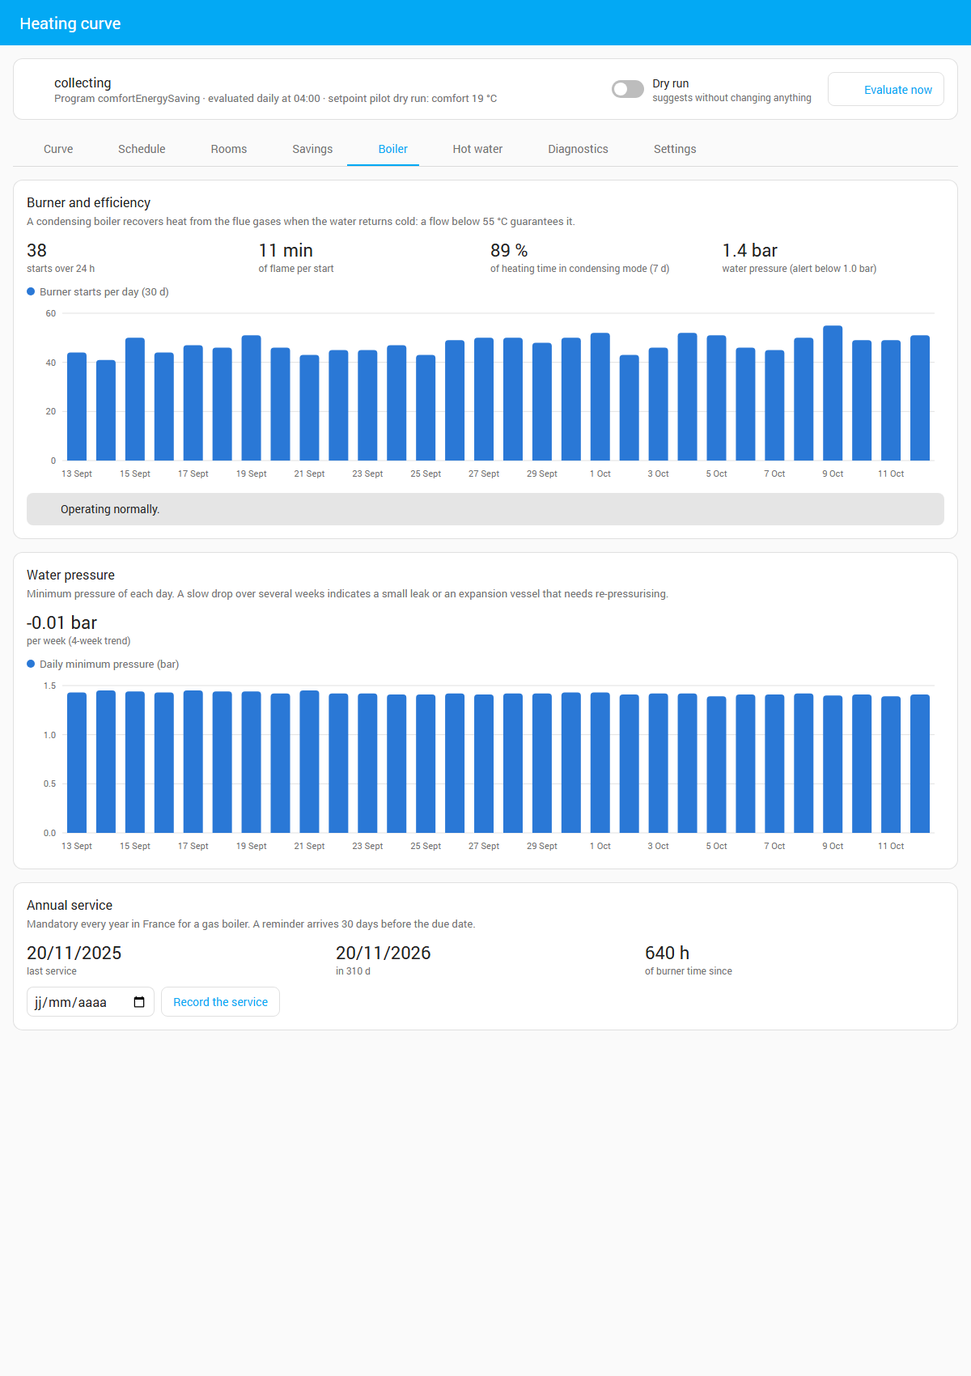
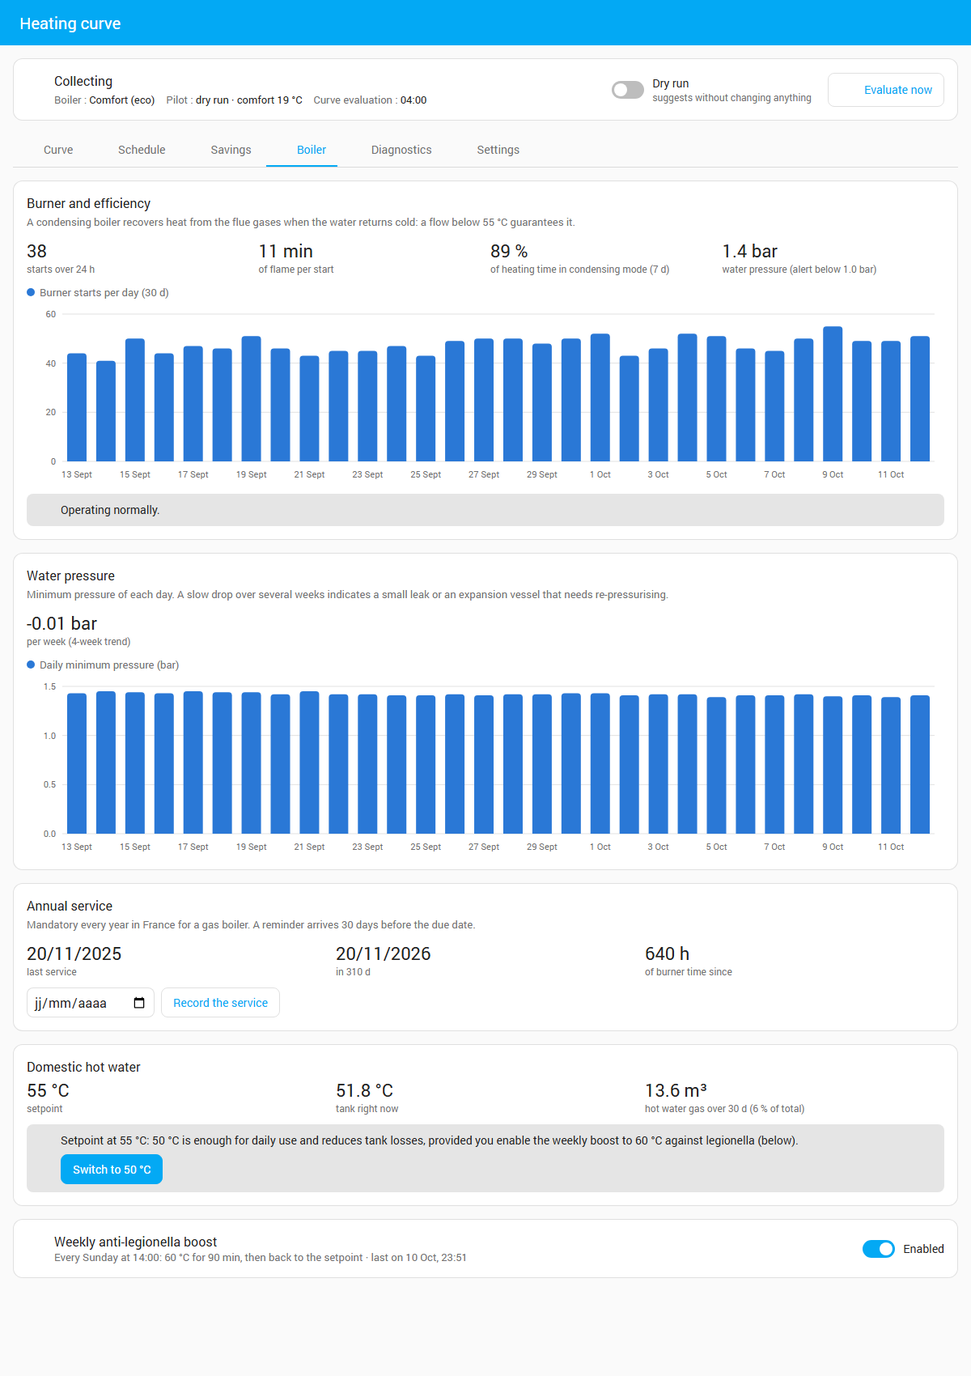
v0.6.3 : passe UX — 6 onglets, bandeau d'état lisible, explications repliables, affichage téléphone
- Onglets : Pièces rejoint Planning, Eau chaude rejoint Chaudière ; icône + libellé court sur téléphone
- Bandeau d'état : état en titre, chaudière / pilote / évaluation sur des lignes claires,
  noms des programmes ViCare en français
- Explications longues repliées dans « En savoir plus »
- Contour de focus clavier, grille de planning et tableau des pièces adaptés au téléphone
- tools/mobile-screenshots.mjs : vraie émulation téléphone (Chrome sans fenêtre ne descend pas sous ~500 px)

diff --git a/custom_components/heating_curve_optimizer/frontend/heating-curve-panel.js b/custom_components/heating_curve_optimizer/frontend/heating-curve-panel.js
@@ -264,6 +264,31 @@ const EN = {
   "Relance anticipée": "Early start",
   "En pause": "Paused",
   "Confirmer": "Confirm",
+  "En savoir plus": "Learn more",
+  "Pilote": "Pilot",
+  "désactivé": "off",
+  "actif": "active",
+  "simulé": "dry run",
+  "Évaluation de la courbe": "Curve evaluation",
+  "Confort (éco)": "Comfort (eco)",
+  "Normal": "Normal",
+  "Normal (éco)": "Normal (eco)",
+  "Réduit (éco)": "Reduced (eco)",
+  "Veille": "Standby",
+  "Forcé (planning)": "Forced (schedule)",
+  "Éco": "Eco",
+  "Vacances": "Holiday",
+  "Vacances à la maison": "Holiday at home",
+  "Fixe": "Fixed",
+  "Tableau Énergie de Home Assistant : source gaz = compteur Gazpar (ou consommations ViCare), prix = entité « Prix du gaz (kWh) » de l'optimiseur, qui suit les Réglages.":
+    "Home Assistant Energy dashboard: gas source = Gazpar meter (or ViCare consumption), price = the optimizer's \"Gas price (kWh)\" entity, which follows the Settings.",
+  "Vitesse de chauffe apprise par Better Thermostat pour chaque pièce, comparée à la médiane.": "Heating rate learned by Better Thermostat for each room, compared with the median.",
+  "Un radiateur qui chauffe beaucoup plus vite que les autres « vole » l'eau chaude aux pièces lentes.": "A radiator that heats much faster than the others \"steals\" hot water from the slow rooms.",
+  "La courbe est réglée pour la pièce la plus difficile à chauffer.": "The curve is tuned for the hardest room to heat.",
+  "Mode multi-pièces inactif : seule la sonde de la chaudière est utilisée. Ajoute tes thermostats dans l'onglet Réglages › Pièces et météo.":
+    "Multi-room mode off: only the boiler's room sensor is used. Add your thermostats in the Settings tab › Rooms and weather.",
+  "Parmi les pièces qui demandent de la chaleur, c'est la plus froide qui décide. Quand plus aucune ne demande, la marge de la moins chaude permet de baisser la courbe.":
+    "Among the rooms calling for heat, the coldest one decides. When none calls for heat, the margin of the least warm room lets the curve go down.",
   "Relevés ViCare corrigés de {p} % d'après le compteur Gazpar ({n} mois comparés). La prévision de facture utilise directement les relevés du compteur.":
     "ViCare readings corrected by {p} % from the Gazpar meter ({n} months compared). The bill forecast uses the meter readings directly.",
   "Réglages": "Settings",
@@ -277,7 +302,6 @@ const EN = {
   "Calcul en cours…": "Calculating…",
   "Renseigne ta facture dans l'onglet Réglages (section « Facture et mensualités ») : début de période, mensualité, abonnement et consommation de référence.":
     "Enter your bill in the Settings tab (\"Bill and instalments\" section): period start, monthly instalment, standing charge and reference consumption.",
-  "{v} €": "€{v}",
   "≈ {v} à payer à la régularisation": "≈ {v} to pay at the yearly settlement",
   "≈ {v} remboursés à la régularisation": "≈ {v} refunded at the yearly settlement",
   "consommés depuis le {d}": "used since {d}",
@@ -318,7 +342,6 @@ const EN = {
     "Click or drag on the grid: blue = comfort, empty = reduced (30 min steps).",
   "Consigne confort": "Comfort setpoint",
   "Consigne réduite": "Reduced setpoint",
-  "Enregistrer": "Save",
   "Importer depuis les têtes thermostatiques": "Import from thermostatic radiator valves",
   "Copier le lundi sur les jours ouvrés": "Copy Monday to weekdays",
   "Décisions des dernières 48 h": "Decisions over the last 48 h",
@@ -413,6 +436,16 @@ const DAY = 86400000;
 const dayLabel = (ms) => new Date(ms).toLocaleDateString(LOCALE, { day: "numeric", month: "short" });
 const CONDENSING_MAX = 55; // °C de départ sous lesquels la condensation est assurée
 const DJU_BASE = 18;
+const capitalize = (txt) => (txt ? String(txt).charAt(0).toUpperCase() + String(txt).slice(1) : txt);
+// Noms lisibles des programmes ViCare
+const PROGRAMS = {
+  comfort: "Confort", comfortenergysaving: "Confort (éco)", normal: "Normal", normalenergysaving: "Normal (éco)",
+  reduced: "Réduit", reducedenergysaving: "Réduit (éco)", standby: "Veille", forcedlastfromschedule: "Forcé (planning)",
+  eco: "Éco", holiday: "Vacances", holidayathome: "Vacances à la maison", fixed: "Fixe",
+};
+const programLabel = (p) => (p ? t(PROGRAMS[String(p).toLowerCase()] || p) : "—");
+// Explication repliable : une phrase visible, le détail sur demande
+const info = (...paragraphs) => `<details class="info"><summary>${t("En savoir plus")}</summary>${paragraphs.map((x) => `<p>${x}</p>`).join("")}</details>`;
 const toMin = (hhmm) => { const [h, m] = String(hhmm).split(":"); return +h * 60 + +m; };
 const fromMin = (m) => (m >= 1440 ? "24:00" : `${String(Math.floor(m / 60)).padStart(2, "0")}:${String(m % 60).padStart(2, "0")}`);
 
@@ -449,12 +482,27 @@ const STYLE = `
 .toolbar { display:flex; align-items:center; gap:8px; height:56px; padding:0 16px; background:var(--app-header-background-color, var(--primary-color));
   color:var(--app-header-text-color, #fff); font-size:20px; font-weight:400; }
 .toolbar .title { flex:1; white-space:nowrap; overflow:hidden; text-overflow:ellipsis; }
-.content { max-width:1280px; margin:0 auto; padding:var(--gap); display:grid; gap:var(--gap); }
+.content { max-width:1280px; margin:0 auto; padding:var(--gap); display:grid; grid-template-columns:minmax(0, 1fr); gap:var(--gap); }
+.content > *, .card { min-width:0; }
+@media (max-width: 600px) { :host { --gap:10px; } .card { padding:14px; } }
+button:focus-visible, select:focus-visible, input:focus-visible, .cell:focus-visible, summary:focus-visible {
+  outline:2px solid var(--primary-color); outline-offset:2px; }
 .card { background:var(--card-background-color, #fff); border-radius:var(--ha-card-border-radius, 12px);
   border:1px solid var(--divider-color); padding:16px; min-width:0; }
 .card h2 { margin:0 0 4px; font-size:16px; font-weight:500; }
 .card .sub { margin:0 0 12px; color:var(--secondary-text-color); font-size:13px; }
 .status { display:flex; flex-wrap:wrap; align-items:center; gap:12px 20px; }
+.status .state b { font-size:16px; }
+.status .facts { display:flex; flex-wrap:wrap; gap:4px 14px; margin-top:4px; font-size:13px; color:var(--secondary-text-color); }
+.status .facts span { white-space:nowrap; }
+.status .facts b { font-size:13px; color:var(--primary-text-color); }
+@media (max-width: 600px) { .status .btn { flex:1; justify-content:center; } }
+details.info { margin-top:8px; font-size:13px; color:var(--secondary-text-color); }
+details.info summary { cursor:pointer; color:var(--primary-color); width:fit-content; list-style:none; }
+details.info summary::-webkit-details-marker { display:none; }
+details.info summary::before { content:"ⓘ "; }
+details.info[open] summary { margin-bottom:6px; }
+details.info p { margin:0 0 6px; line-height:1.5; }
 .status .state { display:flex; align-items:center; gap:10px; flex:1; min-width:220px; }
 .status .state ha-icon { color:var(--secondary-text-color); }
 .status .state b { font-weight:500; }
@@ -470,7 +518,8 @@ button.btn { font:inherit; font-size:14px; font-weight:500; border-radius:8px; p
   border:1px solid var(--divider-color); background:transparent; color:var(--primary-color); display:inline-flex; align-items:center; gap:6px; }
 button.btn.primary { background:var(--primary-color); color:var(--text-primary-color, #fff); border-color:var(--primary-color); }
 button.btn:disabled { opacity:.45; cursor:default; }
-.tiles { display:grid; grid-template-columns:repeat(auto-fit, minmax(160px, 1fr)); gap:var(--gap); }
+.tiles { display:grid; grid-template-columns:repeat(auto-fit, minmax(150px, 1fr)); gap:var(--gap); }
+@media (max-width: 600px) { .tiles { grid-template-columns:repeat(2, minmax(0, 1fr)); } .tile .value { font-size:22px; } }
 .tile { display:flex; flex-direction:column; gap:2px; }
 .tile .label { display:flex; align-items:center; gap:6px; color:var(--secondary-text-color); font-size:13px; }
 .tile .label ha-icon { --mdc-icon-size:18px; }
@@ -551,6 +600,12 @@ tr:last-child td { border-bottom:none; }
   padding:10px 14px; cursor:pointer; white-space:nowrap; display:inline-flex; align-items:center; gap:6px; }
 .tabs button ha-icon { --mdc-icon-size:18px; }
 .tabs button[aria-selected="true"] { color:var(--primary-color); border-bottom-color:var(--primary-color); }
+@media (max-width: 600px) {
+  .tabs { gap:0; }
+  .tabs button { flex:1 1 0; min-width:0; flex-direction:column; gap:2px; padding:8px 2px; font-size:11px; }
+  .tabs button ha-icon { --mdc-icon-size:20px; }
+  .tabs button span { max-width:100%; overflow:hidden; text-overflow:ellipsis; }
+}
 .alert { display:flex; gap:12px; align-items:flex-start; border-radius:12px; padding:12px 16px; font-size:14px;
   background:color-mix(in srgb, var(--error-color, #db4437) 12%, var(--card-background-color, #fff)); border:1px solid color-mix(in srgb, var(--error-color, #db4437) 40%, transparent); }
 .alert ha-icon { color:var(--error-color, #db4437); flex:none; }
@@ -570,7 +625,7 @@ tr:last-child td { border-bottom:none; }
 .seg button + button { border-left:1px solid var(--divider-color); }
 .seg button[aria-checked="true"] { background:var(--primary-color); color:var(--text-primary-color, #fff); }
 .sched { display:grid; gap:3px; user-select:none; touch-action:none; overflow-x:auto; }
-.sched-hours, .sched-row { display:grid; grid-template-columns:36px 1fr; align-items:center; min-width:520px; }
+.sched-hours, .sched-row { display:grid; grid-template-columns:36px 1fr; align-items:center; min-width:330px; }
 .sched-hours { grid-template-columns:36px repeat(8, 1fr); font-size:11px; color:var(--secondary-text-color); }
 .sched-day { font-size:12px; color:var(--secondary-text-color); }
 .sched-cells { display:grid; grid-template-columns:repeat(48, 1fr); gap:1px; }
@@ -581,6 +636,13 @@ table.rooms td.cellstep { padding:4px 8px; }
 table.rooms .box { display:inline-flex; align-items:center; border:1px solid var(--divider-color); border-radius:8px; overflow:hidden; }
 table.rooms .box button { width:30px; height:30px; border:none; background:transparent; color:var(--primary-color); font-size:18px; cursor:pointer; }
 table.rooms output { min-width:56px; text-align:center; }
+@media (max-width: 600px) {
+  table.rooms td.cellstep { padding:4px 2px; }
+  table.rooms .box button { width:26px; height:28px; font-size:16px; }
+  table.rooms output { min-width:38px; font-size:13px; }
+  table.rooms th, table.rooms td { padding-left:4px; padding-right:4px; }
+  table.rooms th:nth-child(5), table.rooms td:nth-child(5) { display:none; } /* consigne prévue : secondaire sur téléphone */
+}
 input[type="date"] { font:inherit; padding:6px 8px; border-radius:8px; border:1px solid var(--divider-color);
   background:var(--card-background-color); color:var(--primary-text-color); }
 .sched-cells .cell:hover { outline:1px solid var(--primary-text-color); outline-offset:-1px; }
@@ -601,7 +663,7 @@ class HeatingCurvePanel extends HTMLElement {
     this._stats = null;
     this._recov = null;
     try {
-      this._tab = localStorage.getItem("hco-tab") || "curve";
+      this._tab = { rooms: "planning", dhw: "boiler" }[localStorage.getItem("hco-tab")] || localStorage.getItem("hco-tab") || "curve";
     } catch {
       this._tab = "curve";
     }
@@ -1018,11 +1080,13 @@ class HeatingCurvePanel extends HTMLElement {
       <div class="card status">
         <div class="state">
           <ha-icon icon="mdi:information-outline"></ha-icon>
-          <div><b>${esc(d.status)}</b>
-            <small>${t("Programme {p} · évaluation chaque jour à {h}", { p: esc(live.program || "—"), h: esc(String(s.evaluate_at).slice(0, 5)) })}${d.pilot.mode !== "off" && d.pilot.state
-              ? ` · ${d.pilot.mode === "active"
-                ? t("pilotage actif : {mode} {v} °C", { mode: esc(t(d.pilot.state.mode)), v: fmt(d.pilot.state.setpoint, 0) })
-                : t("pilotage simulé : {mode} {v} °C", { mode: esc(t(d.pilot.state.mode)), v: fmt(d.pilot.state.setpoint, 0) })}` : ""}</small></div>
+          <div><b>${esc(capitalize(d.status))}</b>
+            <div class="facts">
+              <span>${t("Chaudière")} : <b>${esc(programLabel(live.program))}</b></span>
+              <span>${t("Pilote")} : <b>${d.pilot.mode === "off" ? t("désactivé")
+                : `${d.pilot.mode === "active" ? t("actif") : t("simulé")}${d.pilot.state ? ` · ${esc(t(d.pilot.state.mode))}${d.pilot.state.setpoint != null ? ` ${fmt(d.pilot.state.setpoint, 0)} °C` : ""}` : ""}`}</b></span>
+              <span>${t("Évaluation de la courbe")} : <b>${esc(String(s.evaluate_at).slice(0, 5))}</b></span>
+            </div></div>
         </div>
         <div class="mode clickable" data-action="toggle-auto">
           <button class="toggle" role="switch" aria-checked="${d.auto}" aria-label="${t("Ajustement automatique")}" data-action="toggle-auto"></button>
@@ -1101,26 +1165,22 @@ class HeatingCurvePanel extends HTMLElement {
     const tabs = [
       ["curve", "mdi:chart-bell-curve-cumulative", t("Courbe")],
       ["planning", "mdi:calendar-clock", t("Planning")],
-      ["rooms", "mdi:home-thermometer-outline", t("Pièces")],
       ["savings", "mdi:piggy-bank-outline", t("Économies")],
       ["boiler", "mdi:fire", t("Chaudière")],
-      ["dhw", "mdi:water-boiler", t("Eau chaude")],
       ["diag", "mdi:stethoscope", t("Diagnostic")],
       ["settings", "mdi:cog-outline", t("Réglages")],
     ];
     const nav = `<nav class="tabs" role="tablist">${tabs
       .map(([k, icon, label]) =>
-        `<button role="tab" aria-selected="${this._tab === k}" data-action="tab" data-tab="${k}"><ha-icon icon="${icon}"></ha-icon>${label}</button>`)
+        `<button role="tab" aria-selected="${this._tab === k}" data-action="tab" data-tab="${k}" title="${label}"><ha-icon icon="${icon}"></ha-icon><span>${label}</span></button>`)
       .join("")}</nav>`;
 
     let content;
     if (this._tab === "settings") content = this._settingsTab();
-    else if (this._tab === "planning") content = this._planningTab(pal);
+    else if (this._tab === "planning") content = `${this._planningTab(pal)}${this._roomsTab(live)}`;
     else if (this._tab === "diag") content = this._diagnosticTab(pal);
-    else if (this._tab === "rooms") content = this._roomsTab(live);
     else if (this._tab === "savings") content = this._savingsTab(pal);
-    else if (this._tab === "boiler") content = this._boilerTab(pal);
-    else if (this._tab === "dhw") content = this._dhwTab();
+    else if (this._tab === "boiler") content = `${this._boilerTab(pal)}${this._dhwTab()}`;
     else content = `${tiles}
       <div class="main">${curveCard}${control}</div>
       ${errorCard}
@@ -1222,11 +1282,12 @@ class HeatingCurvePanel extends HTMLElement {
           <td>${share != null ? `<span class="chip ${share >= 40 ? "lim" : ""}">${t("{v} % du temps", { v: share })}</span>` : "—"}</td></tr>`;
       }).join("")}</tbody></table></div>`;
     const explain = d.rooms.length
-      ? t("La courbe est réglée pour la pièce la plus difficile à chauffer : parmi les pièces qui demandent de la chaleur, " +
-         "c'est la plus froide qui décide. Quand plus aucune ne demande, la marge de la moins chaude permet de baisser la courbe.")
-      : t("Mode multi-pièces inactif : seule la sonde de la chaudière est utilisée. Ajoute tes thermostats dans " +
-         "Paramètres › Appareils et services › Optimiseur de courbe de chauffe › Configurer › Pièces et météo.");
-    return `<div class="card"><h2>${t("Pièces suivies")}</h2><p class="sub">${explain}</p>${table}
+      ? `<p class="sub">${t("La courbe est réglée pour la pièce la plus difficile à chauffer.")}</p>`
+      : `<p class="sub">${t("Mode multi-pièces inactif : seule la sonde de la chaudière est utilisée. Ajoute tes thermostats dans l'onglet Réglages › Pièces et météo.")}</p>`;
+    const more = d.rooms.length
+      ? info(t("Parmi les pièces qui demandent de la chaleur, c'est la plus froide qui décide. Quand plus aucune ne demande, la marge de la moins chaude permet de baisser la courbe."))
+      : "";
+    return `<div class="card"><h2>${t("Pièces suivies")}</h2>${explain}${table}${more}
       ${withLim ? `<p class="note" style="margin-top:10px">${t("« Limitante » : part des {n} mesures en cours où la pièce a fixé l'écart retenu.", { n: withLim })}</p>` : ""}
       ${d.settings.solar_filter && d.entities.weather ? `<p class="note" style="margin-top:6px">${t("Filtre solaire actif : les mesures prises par grand soleil sont ignorées ({name}).", { name: esc(name(d.entities.weather)) })}</p>` : ""}</div>`;
   }
@@ -1280,9 +1341,11 @@ class HeatingCurvePanel extends HTMLElement {
           tip: (x) => `<b>${dayLabel(x.t)}</b><div>${t("{gas} m³ · {dju} DJU (ext. {ext} °C)", { gas: fmt(x.gas, 1), dju: fmt(x.dju, 1), ext: fmt(x.ext) })}</div><div><b>${fmt(x.ratio, 3)}</b> m³/DJU</div>`,
           empty: t("Pas encore assez de jours de chauffe (au moins 2 degrés-jours par jour)."),
         })}
-        <p class="note" style="margin-top:8px">${t("Un degré-jour (DJU) mesure le besoin de chauffage : {b} °C moins la température extérieure moyenne du jour.", { b: DJU_BASE })}
-          ${t("Diviser le gaz par les DJU compare des périodes de météo différente : si le ratio baisse après un ajustement, l'économie est réelle.")}</p>
-        <p class="note">${t("Tableau Énergie de Home Assistant : sources gaz = consommations ViCare du jour, prix = entité « Prix du gaz » de l'optimiseur.")}</p>`;
+        ${info(
+          `${t("Un degré-jour (DJU) mesure le besoin de chauffage : {b} °C moins la température extérieure moyenne du jour.", { b: DJU_BASE })}
+          ${t("Diviser le gaz par les DJU compare des périodes de météo différente : si le ratio baisse après un ajustement, l'économie est réelle.")}`,
+          t("Tableau Énergie de Home Assistant : source gaz = compteur Gazpar (ou consommations ViCare), prix = entité « Prix du gaz (kWh) » de l'optimiseur, qui suit les Réglages."),
+        )}`;
     }
     return `<div class="card"><h2>${t("Consommation corrigée de la météo")}</h2>
         <p class="sub">${t("Gaz de chauffage par degré-jour sur 60 jours")}
@@ -1637,15 +1700,17 @@ class HeatingCurvePanel extends HTMLElement {
       : `<div class="empty">${t("Il faut au moins deux pièces suivies avec Better Thermostat (onglet Pièces).")}</div>`;
     const rep = this._data.report;
     return `<div class="card"><h2>${t("Bilan thermique de la maison")}</h2>
-        <p class="sub">${t("Déperditions estimées à partir du gaz consommé et de l'écart intérieur / extérieur, jour par jour (rendement supposé 95 %).")}
-          ${t("Moins de W/K = maison mieux isolée : compare les saisons avant et après des travaux.")}
-          ${t("Le seuil de chauffe est la température extérieure au-dessus de laquelle les apports gratuits (soleil, occupants, appareils) suffisent.")}</p>${thermal}
+        <p class="sub">${t("Moins de W/K = maison mieux isolée : compare les saisons avant et après des travaux.")}</p>${thermal}
+        ${info(
+          t("Déperditions estimées à partir du gaz consommé et de l'écart intérieur / extérieur, jour par jour (rendement supposé 95 %)."),
+          t("Le seuil de chauffe est la température extérieure au-dessus de laquelle les apports gratuits (soleil, occupants, appareils) suffisent."),
+        )}
         ${(this._data.overconsumption_log || []).length ? `<h2 style="margin-top:16px">${t("Jours de surconsommation")}</h2>
           <div class="table-wrap"><table><thead><tr><th>${t("Jour")}</th><th>${t("Consommé")}</th><th>${t("Attendu pour la météo")}</th></tr></thead>
           <tbody>${[...this._data.overconsumption_log].reverse().map((o) => `<tr><td>${dayLabel(o.t * 1000)}</td><td>${fmt(o.kwh, 0)} kWh</td><td>${fmt(o.expected, 0)} kWh</td></tr>`).join("")}</tbody></table></div>` : ""}</div>
       <div class="card"><h2>${t("Équilibrage des radiateurs")}</h2>
-        <p class="sub">${t("Vitesse de chauffe apprise par Better Thermostat pour chaque pièce, comparée à la médiane. Un radiateur qui chauffe beaucoup plus vite " +
-          "que les autres « vole » l'eau chaude aux pièces lentes.")}</p>${balance}</div>
+        <p class="sub">${t("Vitesse de chauffe apprise par Better Thermostat pour chaque pièce, comparée à la médiane.")}</p>${balance}
+        ${info(t("Un radiateur qui chauffe beaucoup plus vite que les autres « vole » l'eau chaude aux pièces lentes."))}</div>
       <div class="card"><h2>${t("Bilan hebdomadaire")}</h2>
         <p class="sub">${rep.enabled ? t("Envoyé chaque {day} à {time}", { day: weekdayName(rep.weekday), time: esc(String(rep.time).slice(0, 5)) }) : t("Envoi désactivé")}
           ${rep.notify ? t("sur {target} et", { target: esc(rep.notify) }) : ""} ${t("dans les notifications de Home Assistant.")}</p>
@@ -1696,7 +1761,7 @@ class HeatingCurvePanel extends HTMLElement {
         case "weekday":
           return `<select data-key="${f.key}">${opt(ch.weekday, val)}</select>`;
         case "programs":
-          return checks(f.key, ch.programs);
+          return checks(f.key, ch.programs.map((code) => ({ value: code, label: programLabel(code) })));
         case "entities":
           return checks(f.key, ch.climate);
         case "entity":

diff --git a/README.md b/README.md
@@ -95,11 +95,9 @@ Panneau dans la barre latérale (administrateurs), en français ou en anglais se
 | Onglet | Contenu |
 |---|---|
 | **Courbe** | Courbe actuelle + proposition / réglage en cours / courbe calculée, zone de condensation, départ mesuré, réglage manuel avec aperçu, écarts par T° extérieure, historique |
-| **Planning** | Mode de pilotage, consigne calculée et raison, grille hebdomadaire, import depuis les têtes, consignes des pièces, frise des décisions sur 48 h |
-| **Pièces** | Ambiance / consigne / demande de chaleur de chaque pièce suivie, part du temps où chaque pièce est limitante |
+| **Planning** | Mode de pilotage, consigne calculée et raison, grille hebdomadaire, import depuis les têtes, consignes des pièces, frise des décisions sur 48 h, état de chaque pièce suivie (demande de chaleur, part du temps où elle est limitante) |
 | **Économies** | Gaz par degré-jour (base 18 °C) sur 60 jours, coût en €, économie estimée ; analyse des relances du matin |
-| **Chaudière** | Démarrages et cycles du brûleur, part du temps en condensation, pression et sa tendance, entretien annuel |
-| **Eau chaude** | Consigne, ballon, part du gaz, recommandation 50 °C, montée anti-légionelle hebdomadaire |
+| **Chaudière** | Démarrages et cycles du brûleur, part du temps en condensation, pression et sa tendance, entretien annuel, eau chaude (consigne, ballon, part du gaz, montée anti-légionelle) |
 | **Diagnostic** | Déperditions (W/K) et seuil de chauffe par saison, jours de surconsommation, équilibrage des radiateurs, bilan hebdomadaire |
 | **Réglages** | Toutes les options de l'intégration (pièces, météo, pilotage, coûts, facture, alertes, eau chaude, algorithme), sans passer par les menus de Home Assistant |
 

diff --git a/README.en.md b/README.en.md
@@ -93,11 +93,9 @@ Sidebar panel (administrators), in English or French depending on Home Assistant
 | Tab | Content |
 |---|---|
 | **Curve** | Current curve + proposal / pending edit / computed curve, condensing zone, measured flow, manual tuning with preview, deviations by outdoor temperature, history |
-| **Schedule** | Pilot mode, computed setpoint and reason, weekly grid, import from valve heads, room setpoints, 48-hour decision timeline |
-| **Rooms** | Temperature / setpoint / heat demand of each room, share of time each room is limiting |
+| **Schedule** | Pilot mode, computed setpoint and reason, weekly grid, import from valve heads, room setpoints, 48-hour decision timeline, status of each tracked room (heat demand, share of time it is limiting) |
 | **Savings** | Gas per degree-day (base 18 °C) over 60 days, cost in €, estimated savings; morning recovery analysis |
-| **Boiler** | Burner starts and cycles, share of time condensing, pressure and its trend, annual service |
-| **Hot water** | Setpoint, tank, gas share, 50 °C recommendation, weekly anti-legionella boost |
+| **Boiler** | Burner starts and cycles, share of time condensing, pressure and its trend, annual service, hot water (setpoint, tank, gas share, weekly anti-legionella boost) |
 | **Diagnostics** | Heat loss (W/K) and heating limit per season, overconsumption days, radiator balancing, weekly report |
 | **Settings** | Every integration option (rooms, weather, pilot, costs, bill, alerts, hot water, algorithm) without going through Home Assistant menus |
 
